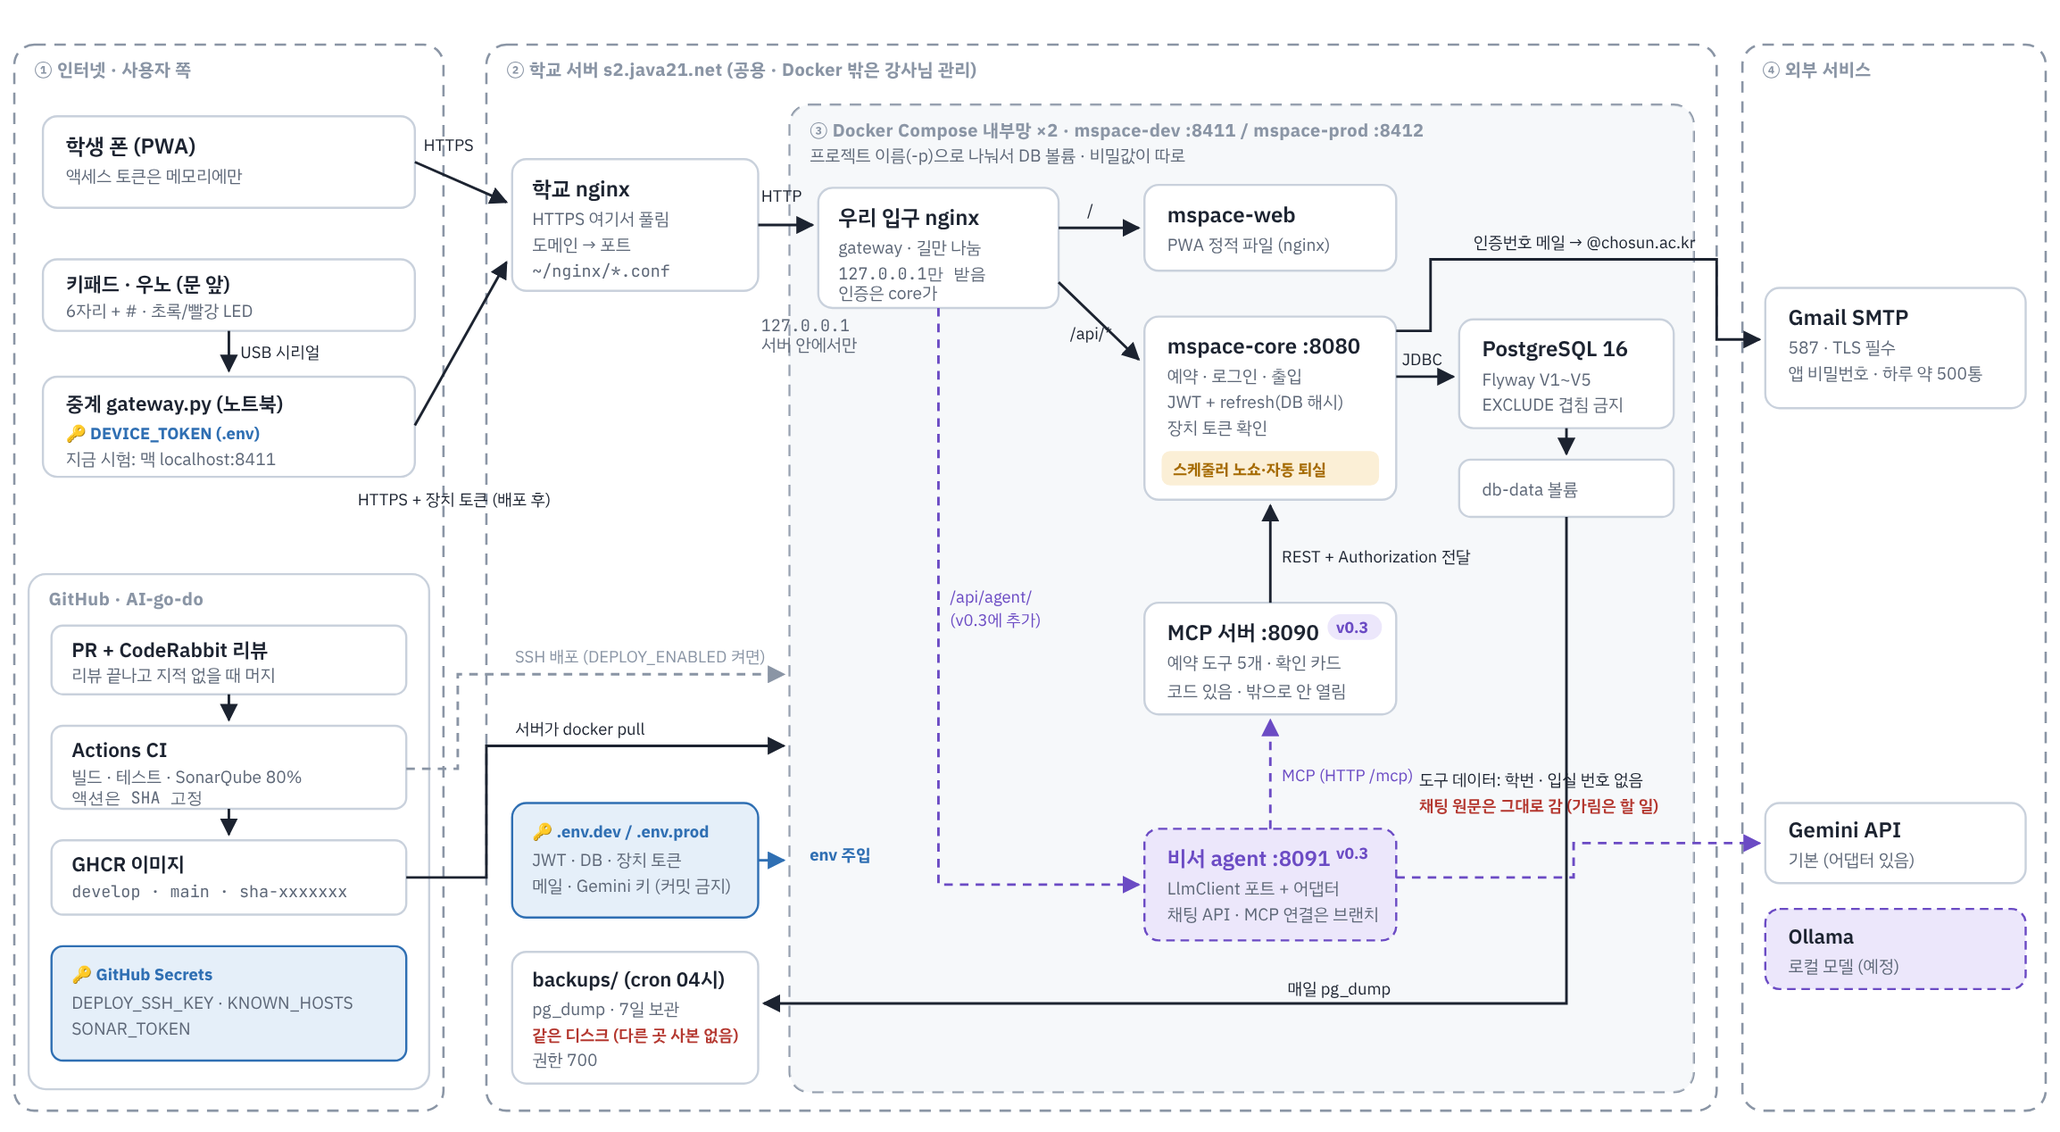
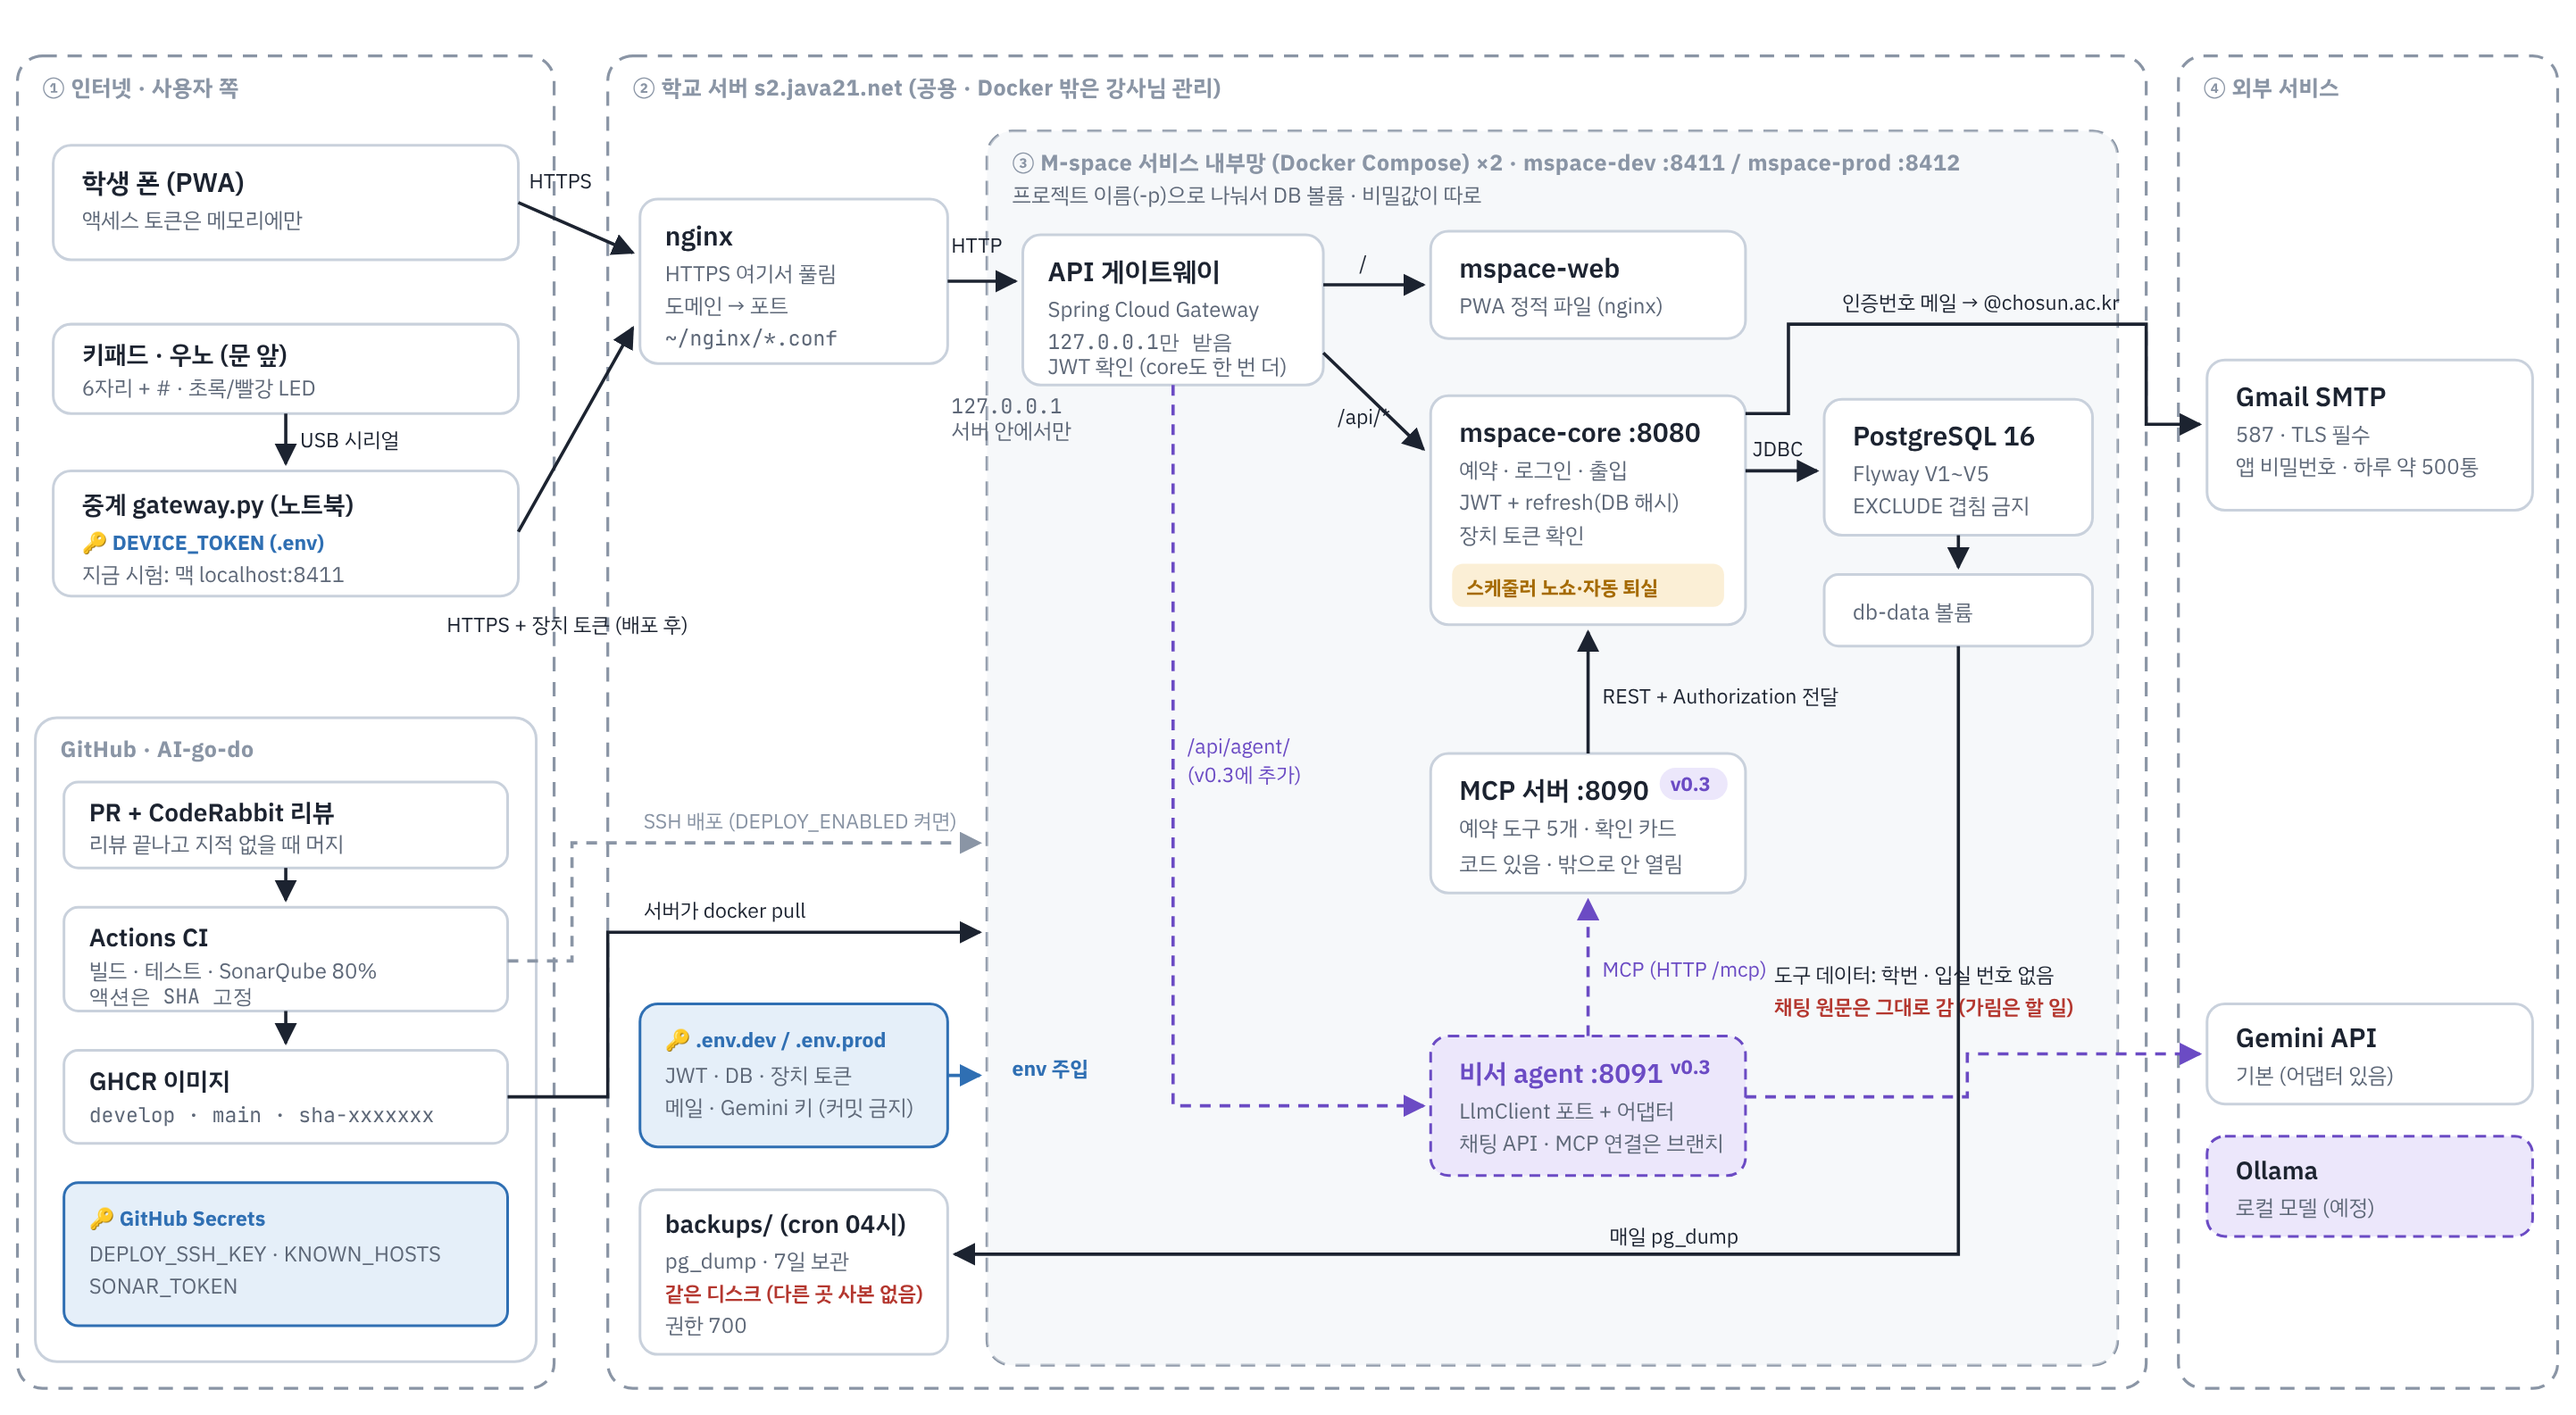
docs: 아키텍처를 API 게이트웨이(Spring Cloud Gateway) 기준으로 갱신
- 우리 입구 nginx → API 게이트웨이(JWT 확인·길 나누기·로드밸런싱), nginx는 학교 서버 하나
- /api/agent/** → agent 바로(core 안 거침), MCP는 내부 전용
- "nginx가 두 개인 이유" 절을 "nginx와 API 게이트웨이"로 바꿈, 공개 API 목록
- 그림 2장(한눈에·배포 보안)을 최신 그림으로 교체, mvp-services 2장 갱신

Claude-Session: https://claude.ai/code/session_011gK1KjJpsQmEw1B319nWaY

diff --git a/architecture/mvp-services.md b/architecture/mvp-services.md
@@ -12,8 +12,8 @@
 
 | 서비스 | 저장소 | 실행 위치 | 여는 곳 |
 |---|---|---|---|
-| 학교 nginx | (학교 서버, 강사님 관리) | 학교 서버, Docker 밖 | 443 → 8411·8412 |
-| 우리 입구 nginx `gateway` | `infra` | compose 컨테이너 | `127.0.0.1:${PORT}:80` (서버 안에서만 열린 유일한 포트, infra #8) |
+| nginx | (학교 서버, 강사님 관리) | 학교 서버, Docker 밖 (Nginx Proxy Manager) | 443 → 8411·8412 |
+| API 게이트웨이 `gateway` | `mspace-gateway` (compose는 `infra`) | compose 컨테이너 | `127.0.0.1:${PORT}:8000` (서버 안에서만 열린 유일한 포트, infra #8 · #9) |
 | web | `mspace-web` | compose 컨테이너 (nginx가 정적 파일) | 안쪽 `web:80` |
 | core | `mspace-core` | compose 컨테이너 | 안쪽 `core:8080` |
 | PostgreSQL | `infra` | compose 컨테이너 | 안쪽 `db:5432`, 밖으로 안 염 |
@@ -21,9 +21,9 @@
 
 서버마다 안쪽 구조는 3장(프론트) · 4장(백엔드) · 6장(디바이스) · 8장(AI 비서, v0.3) 그림에 있어요.
 
-**MVP에서 빠지는 것**: agent · MCP 서버 · 모델(Gemini/Ollama) · 재실 센서 · Jetson. compose에 `mcp`·`agent` 컨테이너가 떠 있어도 입구 nginx에 `/api/agent/` 길이 없어서 v0.1에는 닿지 않아요.
+**MVP에서 빠지는 것**: agent · MCP 서버 · 모델(Gemini/Ollama) · 재실 센서 · Jetson. 게이트웨이에 `/api/agent/` 길은 먼저 들어와 있지만, agent 채팅 API가 아직 없어서 v0.1에는 쓰지 않아요. MCP는 내부 전용이라 밖에서 닿지 않아요.
 
-## 1. 학교 nginx
+## 1. nginx (학교 서버)
 
 ```mermaid
 flowchart LR
@@ -36,28 +36,31 @@ flowchart LR
 | `https://mspace.java21.net` | 학교 서버 `:8412` | 시연용. HTTPS를 여기서 풀어요 |
 | `https://dev-mspace.java21.net` | 학교 서버 `:8411` | 개발용 |
 
-- **제공 API: 없음.** 길만 넘겨요. 설정은 강사님이 학교 nginx 관리자에서 해요.
+- **제공 API: 없음.** 길만 넘겨요. 설정은 학교 Nginx Proxy Manager에서 해요.
 
-## 2. 우리 입구 nginx (`gateway`)
+## 2. API 게이트웨이 (`gateway`)
 
 ```mermaid
 flowchart LR
-    in[":80"] --> r1{"주소"}
-    r1 -- "/api/" --> core["core:8080"]
-    r1 -- "= /actuator/health" --> core
-    r1 -- "/ (나머지)" --> web["web:80"]
+    in[":8000"] --> jwt{"토큰 확인<br/>(공개 API는 통과)"}
+    jwt -- "/api/agent/**" --> agent["agent:8091"]
+    jwt -- "/api/** · /actuator/health" --> core["core:8080"]
+    jwt -- "/ (나머지)" --> web["web:80"]
 ```
 
-| 경로 | 보내는 곳 | 비고 | 상태 |
+| 경로 | 보내는 곳 | 토큰 | 상태 |
 |---|---|---|---|
-| `/api/` | `core:8080` | Host·X-Real-IP·X-Forwarded-* 헤더 붙임 | ✅ |
-| `= /actuator/health` | `core:8080` | 배포 직후 살아 있는지 확인 | ✅ |
-| `/` | `web:80` | 화면. 새로고침 시 화면 주소(`/me` 등)는 web 안 nginx가 처리 | ✅ |
-| `/api/agent/` | agent | v0.3 (비서). MVP 아님 | ❌ |
+| `/api/agent/**` | `agent:8091` | 필요 | 게이트웨이 PR에 있음 (비서 채팅은 v0.3) |
+| `/api/**` | `core:8080` | 필요 (공개 API 빼고) | 게이트웨이 PR에 있음 |
+| `/actuator/health` | `core:8080` | 필요 없음 | 배포 직후 core가 살아 있는지 확인 |
+| `/` (나머지) | `web:80` | 필요 없음 | 화면. 새로고침 시 화면 주소(`/me` 등)는 web 안 nginx가 처리 |
 
-- **제공 API: 없음.** 토큰도 검사하지 않아요. 인증은 core가 해요.
-- Docker 내부 DNS(`127.0.0.11`)에 10초마다 다시 물어서, 배포로 컨테이너가 바뀌어도 502가 안 나요.
-- 설정 파일은 켤 때만 읽어요. 배포 워크플로가 `nginx -t` → `nginx -s reload`로 다시 읽게 해요(core #49 · web #11 · assistant #48).
+- **제공 API: 없음.** 길을 나누고 토큰을 먼저 확인해요. core도 한 번 더 확인해요.
+- 공개 API: `POST /api/auth/email-codes` · `login` · `refresh` · `logout`, `POST /api/access/verify`, `GET /api/rooms` · `/api/rooms/availability`.
+- 토큰은 core와 같은 `JWT_SECRET`(HS256, 발급자 `mspace-core`)으로 확인해요.
+- `lb://` 이름으로 보내서 인스턴스가 여러 개면 돌아가며 보내요(로드밸런싱).
+- 게이트웨이 자기 상태는 안쪽 포트 8001에만 있고 밖에 안 열어요.
+- 상태(11-04): [mspace-gateway #1](https://github.com/AI-go-do/mspace-gateway/pull/1) · [infra #9](https://github.com/AI-go-do/infra/pull/9) 머지 대기. 머지 전 서버 입구는 nginx 컨테이너(`/api/` → core, `/` → web)예요.
 
 ## 3. web (PWA)
 
@@ -65,7 +68,7 @@ flowchart LR
 
 - **제공 API: 없음.** 정적 파일(HTML·JS)만 내요. 같은 주소라 CORS가 필요 없어요.
 - 액세스 토큰은 메모리에만 들고, `Authorization: Bearer`로 보내요.
-- web 컨테이너는 파일만 내려줘요. API는 브라우저가 입구 nginx의 `/api/`를 거쳐 core에 바로 불러요. core가 web을 부르는 일은 없어요.
+- web 컨테이너는 파일만 내려줘요. API는 브라우저가 게이트웨이의 `/api/`를 거쳐 core에 바로 불러요. core가 web을 부르는 일은 없어요.
 
 | 화면 | 부르는 core API | 화면 상태 |
 |---|---|---|
